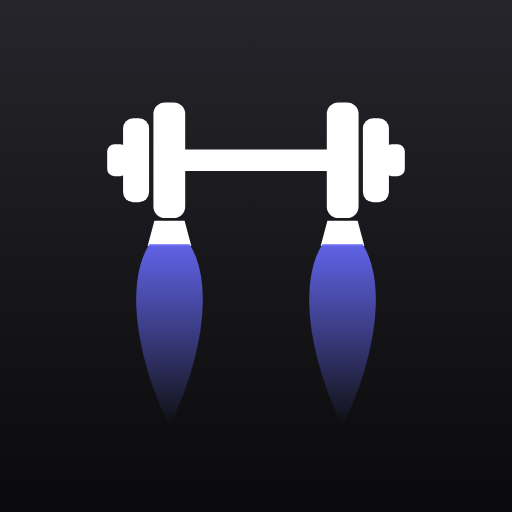
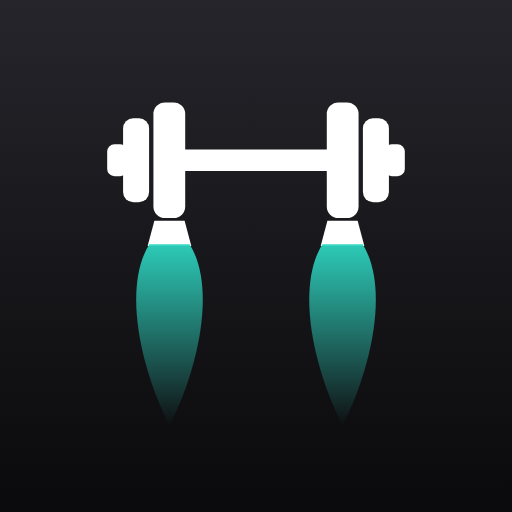
Essai : charte turquoise oxygène à la place de l'indigo
- action, bandeaux et progrès en turquoise (#0fb5a3 ; #2dd4bf en sombre), texte noir posé dessus
- rubriques : Séance libre turquoise profond, Oxa Plan bleu nuit
- logo, icônes, vitrine, image de partage, story et bilan en turquoise

Claude-Session: https://claude.ai/code/session_01BxJGnhW63a6fpFLoPD1ANU

Changed region(s): [[0.5938, 0.4688, 0.75, 0.75], [0.25, 0.4688, 0.4062, 0.75]]

diff --git a/web/app/globals.css b/web/app/globals.css
@@ -4,9 +4,9 @@
 @custom-variant dark (&:is(.dark *));
 
 /* ============================================================
-   Oxa — système de design, charte indigo
-   Neutres purs (blanc, gris, noir) et une couleur de marque : l'indigo
-   électrique, celle des flammes du logo. Elle sert à l'action (`plate`),
+   Oxa — système de design, charte turquoise
+   Neutres purs (blanc, gris, noir) et une couleur de marque : le turquoise
+   oxygène, celle des flammes du logo. Clair, il porte du texte noir. Elle sert à l'action (`plate`),
    aux grands bandeaux (`bandeau`) et au progrès (`feu` : records,
    muscles travaillés, graphiques). Les bannières de rubriques gardent
    chacune leur teinte. Le rouge et les couleurs de RPE restent : ce
@@ -35,18 +35,19 @@
   --input: #d7d7dd;
   --ring: #9c9ca6;
 
-  /* action : indigo (les jetons gardent le nom « plate », le disque de fonte) */
-  --plate: #4f46e5;
-  --plate-foreground: #ffffff;
-  --plate-soft: color-mix(in oklab, var(--plate) 12%, transparent);
-  --plate-ink: #4338ca;           /* indigo lisible en texte sur fond clair */
+  /* action : turquoise (les jetons gardent le nom « plate », le disque de fonte) */
+  --plate: #0fb5a3;
+  --plate-foreground: #0a0a0c;    /* le turquoise est clair : texte noir dessus */
+  --plate-soft: color-mix(in oklab, var(--plate) 14%, transparent);
+  --plate-ink: #0f766e;           /* turquoise lisible en texte sur fond clair */
   /* grands bandeaux (séance du moment, vitrine, street…) */
-  --bandeau: #4f46e5;
+  --bandeau: #0fb5a3;
+  --bandeau-foreground: #0a0a0c;
   /* bannière Street : noire en clair, graphite en sombre (sinon noir sur noir) */
   --street: #1d1d1f;
-  /* feu : le progrès (records, muscles travaillés, graphiques), même indigo */
-  --feu: #4f46e5;
-  --feu-ink: #4338ca;
+  /* feu : le progrès (records, muscles travaillés, graphiques), même turquoise */
+  --feu: #0fb5a3;
+  --feu-ink: #0f766e;
   --feu-soft: color-mix(in oklab, var(--feu) 14%, transparent);
   --success: var(--feu-ink);       /* réussite = le progrès, en teinte lisible sur fond clair */
   --success-soft: var(--feu-soft);
@@ -75,14 +76,14 @@
   --input: #34343c;
   --ring: #55555f;
 
-  --plate: #6d63ff;
-  --plate-foreground: #ffffff;
-  --plate-soft: color-mix(in oklab, var(--plate) 18%, transparent);
-  --plate-ink: #a5a0ff;
-  --bandeau: #4f46e5;
+  --plate: #2dd4bf;
+  --plate-foreground: #0a0a0c;
+  --plate-soft: color-mix(in oklab, var(--plate) 16%, transparent);
+  --plate-ink: #5eead4;
+  --bandeau: #0fb5a3;
   --street: #2c2c33;
-  --feu: #6d63ff;
-  --feu-ink: #a5a0ff;
+  --feu: #2dd4bf;
+  --feu-ink: #5eead4;
   --feu-soft: color-mix(in oklab, var(--feu) 18%, transparent);
   --success: var(--feu);
 }
@@ -124,6 +125,7 @@
   --color-plate-soft: var(--plate-soft);
   --color-plate-ink: var(--plate-ink);
   --color-bandeau: var(--bandeau);
+  --color-bandeau-foreground: var(--bandeau-foreground);
   --color-street: var(--street);
   --color-feu: var(--feu);
   --color-feu-ink: var(--feu-ink);

diff --git a/web/app/progres/bilan/page.tsx b/web/app/progres/bilan/page.tsx
@@ -45,7 +45,7 @@ async function image(r: Recap): Promise<Blob | null> {
   if (!g) return null;
   const police = getComputedStyle(document.body).fontFamily;
   const fond = g.createLinearGradient(0, 0, 0, H);
-  fond.addColorStop(0, "#5b52f0"); fond.addColorStop(1, "#3a32b8");
+  fond.addColorStop(0, "#0e9f90"); fond.addColorStop(1, "#075e57");
   g.fillStyle = fond; g.fillRect(0, 0, W, H);
   /* le disque du logo, en grand et en filigrane */
   g.lineCap = "round";
@@ -105,7 +105,7 @@ function BilanPeriode() {
 
   if (!r || !r.seances)
     return (
-      <div className="grid min-h-dvh place-items-center bg-bandeau p-8 text-center text-white">
+      <div className="grid min-h-dvh place-items-center bg-bandeau p-8 text-center text-bandeau-foreground">
         <div>
           <p className="text-[18px] font-semibold">{tr("Pas encore d'entraînement sur cette période.")}</p>
           <Button variant="secondary" className="mt-4" onClick={retour}>{tr("Revenir")}</Button>
@@ -123,7 +123,7 @@ function BilanPeriode() {
   };
   const e = E[i];
   return (
-    <div className="relative isolate min-h-dvh overflow-hidden bg-gradient-to-b from-[#5b52f0] to-[#3a32b8] text-white select-none">
+    <div className="relative isolate min-h-dvh overflow-hidden bg-gradient-to-b from-[#0e9f90] to-[#075e57] text-white select-none">
       <LogoDisque className="pointer-events-none absolute -right-24 -bottom-24 -z-10 size-[420px] text-white/[.09]" />
       <div className="flex gap-1 px-4 pt-[max(env(safe-area-inset-top),14px)]" aria-hidden>
         {Array.from({ length: total }, (_, k) => (

diff --git a/web/components/repere/logo.tsx b/web/components/repere/logo.tsx
@@ -1,11 +1,11 @@
 /* Logo d'Oxa : un haltère qui décolle, propulsé par deux flammes de fusée (tu progresses).
-   Tuile noire, haltère blanc, flammes indigo. L'haltère et les
+   Tuile noire, haltère blanc, flammes turquoise. L'haltère et les
    flammes ont chacun leur couleur. Source de l'icône : public/icone-source.svg (même dessin). */
 import { useId } from "react";
 import { tr } from "@/lib/i18n";
 import { cn } from "@/lib/utils";
 
-/** Icône d'app : tuile noire, haltère blanc, flammes indigo. Le dessin est réduit (0,84) pour
+/** Icône d'app : tuile noire, haltère blanc, flammes turquoise. Le dessin est réduit (0,84) pour
     tenir dans la zone sûre des icônes Android, rognées en cercle. */
 export function LogoTuile({ className }: { className?: string }) {
   const id = useId();
@@ -19,13 +19,13 @@ export function LogoTuile({ className }: { className?: string }) {
       </defs>
       <rect width="512" height="512" fill={`url(#${id}fond)`} />
       <g transform="translate(256 256) scale(.84) translate(-256 -256)">
-        <Marque haltere="#fff" flamme="#6366f1" />
+        <Marque haltere="#fff" flamme="#2dd4bf" />
       </g>
     </svg>
   );
 }
 
-/** Le logo sans tuile, dans la couleur du texte. `feu` colore les flammes en indigo
+/** Le logo sans tuile, dans la couleur du texte. `feu` colore les flammes en turquoise
     (sinon elles suivent le texte, pour les filigranes). `accent` : haltère couleur d'action. */
 export function LogoDisque({ className, accent, feu }: { className?: string; accent?: boolean; feu?: boolean }) {
   return (

diff --git a/web/components/repere/rubriques.tsx b/web/components/repere/rubriques.tsx
@@ -20,8 +20,8 @@ export const nomRubrique = (v: Rubrique) =>
 
 /* photos des exercices (domaine public), en grand ; hors connexion sans elles, la petite */
 const BANNIERES: Record<Rubrique, { photo: string; fond: string; texte: () => string }> = {
-  libre: { photo: "Dumbbell_Lunges_0", fond: "#3a32b8", texte: () => tr("Muscu, cardio ou combinée : crée ta séance, compose-la, ou parcours les exercices.") },
-  programme: { photo: "Barbell_Squat_0", fond: "#0e7490", texte: () => tr("Huit semaines de séances qui font monter l'effort semaine après semaine.") },
+  libre: { photo: "Dumbbell_Lunges_0", fond: "#0b7f73", texte: () => tr("Muscu, cardio ou combinée : crée ta séance, compose-la, ou parcours les exercices.") },
+  programme: { photo: "Barbell_Squat_0", fond: "#1e3a8a", texte: () => tr("Huit semaines de séances qui font monter l'effort semaine après semaine.") },
   street: { photo: "Chin-Up_1", fond: "var(--street)", texte: () => tr("Poids du corps et barre : programmes par niveau, du plus facile au plus dur.") },
   course: { photo: "Running_Treadmill_0", fond: "#9a4a1c", texte: () => tr("10 km, semi ou marathon : un plan jusqu'au jour J, à ton allure.") },
   soin: { photo: "Hamstring_Stretch_0", fond: "#5d6b55", texte: () => tr("Routines courtes par zone, pour bouger sans douleur.") },

diff --git a/web/components/repere/street.tsx b/web/components/repere/street.tsx
@@ -40,7 +40,7 @@ function TestEntree() {
     setOuvert(false); setV({ tr: "", po: "", di: "", sq: "" });
   };
   return (
-    <div className="rounded-[22px] bg-bandeau p-4 text-white">
+    <div className="rounded-[22px] bg-bandeau p-4 text-bandeau-foreground">
       <div className="text-[11.5px] font-semibold tracking-[0.12em] uppercase opacity-80">{tr("Test d'entrée")}</div>
       {dernier ? (
         <>
@@ -211,7 +211,7 @@ export function VueStreet({ onFiche, onglet }: { onFiche: (id: string) => void; 
     );
   if (onglet === "mesure")
     return (
-      <div className="rounded-[22px] bg-bandeau p-5 text-white">
+      <div className="rounded-[22px] bg-bandeau p-5 text-bandeau-foreground">
         <SparkleIcon className="size-8" weight="fill" />
         <h3 className="mt-2 text-[22px] leading-tight font-bold">{tr("Une séance street sur mesure")}</h3>
         <p className="mt-1.5 text-[14px] leading-relaxed opacity-90">{tr("Tu choisis les muscles et la durée, Oxa compose avec le poids du corps et la barre.")}</p>

diff --git a/web/components/repere/programme-vues.tsx b/web/components/repere/programme-vues.tsx
@@ -36,7 +36,7 @@ export function useProgramme() {
 /* Grand bandeau noir : l'action du moment. Le disque du logo en filigrane. */
 export function Hero({ surtitre, titre, texte, bouton, onClick, icone }: { surtitre: string; titre: string; texte: string; bouton: string; onClick: () => void; icone?: React.ReactNode }) {
   return (
-    <div className="relative isolate overflow-hidden rounded-[26px] bg-bandeau p-5 text-white shadow-[0_18px_40px_-22px_var(--bandeau)]">
+    <div className="relative isolate overflow-hidden rounded-[26px] bg-bandeau p-5 text-bandeau-foreground shadow-[0_18px_40px_-22px_var(--bandeau)]">
       <LogoDisque className="pointer-events-none absolute -right-10 -bottom-12 -z-10 size-52 text-white/[.13]" />
       <div className="flex items-center gap-2 text-[11.5px] font-semibold tracking-[0.12em] uppercase opacity-80">{icone}{surtitre}</div>
       <h2 className="mt-2 text-[26px] leading-[1.1] font-bold tracking-[-0.02em] text-balance">{titre}</h2>

diff --git a/web/app/progres/page.tsx b/web/app/progres/page.tsx
@@ -409,7 +409,7 @@ function Bilans({ auj }: { auj: string }) {
     <div className="flex flex-col gap-2">
       {liste.map((r) => (
         <button key={r.p.id} onClick={() => router.push(`/progres/bilan?p=${r.p.id}` as "/progres/bilan", AVANT)}
-          className="relative isolate flex items-center gap-3 overflow-hidden rounded-[20px] bg-gradient-to-br from-[#5b52f0] to-[#3a32b8] p-4 text-left text-white active:scale-[.99]">
+          className="relative isolate flex items-center gap-3 overflow-hidden rounded-[20px] bg-gradient-to-br from-[#0e9f90] to-[#075e57] p-4 text-left text-white active:scale-[.99]">
           <LogoDisque className="pointer-events-none absolute -right-8 -bottom-10 -z-10 size-36 text-white/10" />
           <SparkleIcon className="size-7 shrink-0" weight="fill" />
           <span className="min-w-0 flex-1">

diff --git a/web/lib/carte-seance.ts b/web/lib/carte-seance.ts
@@ -21,7 +21,7 @@ export async function imageSeance(c: CarteSeance): Promise<Blob | null> {
   const police = getComputedStyle(document.body).fontFamily;
   const chiffres = getComputedStyle(document.body).getPropertyValue("--font-chiffres").trim() || police;
   const fond = g.createRadialGradient(W * 0.8, 0, 0, W * 0.8, 0, H * 0.95);
-  fond.addColorStop(0, "#7068ff"); fond.addColorStop(0.45, "#4f46e5"); fond.addColorStop(1, "#2f2899");
+  fond.addColorStop(0, "#14b8a6"); fond.addColorStop(0.45, "#0e9f90"); fond.addColorStop(1, "#064e47");
   g.fillStyle = fond; g.fillRect(0, 0, W, H);
   const texte = (t: string, x: number, y: number, taille: number, poids = 700, alpha = 1, fam = police) => {
     g.globalAlpha = alpha; g.font = `${poids} ${taille}px ${fam}`; g.fillText(t, x, y); g.globalAlpha = 1;

diff --git a/web/components/repere/vitrine.tsx b/web/components/repere/vitrine.tsx
@@ -23,7 +23,7 @@ const AUSSI = [
 export function Vitrine({ onCommencer, onCompte }: { onCommencer: () => void; onCompte: () => void }) {
   return (
     <div className="-mx-6 -mt-[max(env(safe-area-inset-top),24px)]">
-      <header className="overflow-hidden rounded-b-[34px] bg-bandeau px-6 pt-[max(env(safe-area-inset-top),22px)] text-white">
+      <header className="overflow-hidden rounded-b-[34px] bg-bandeau px-6 pt-[max(env(safe-area-inset-top),22px)] text-bandeau-foreground">
         <div className="flex items-center gap-2.5 text-[18px] font-bold">
           <LogoTuile className="size-9" />{tr("Oxa")}
           <button onClick={onCompte} className="ml-auto text-[14px] font-semibold opacity-90">{tr("J'ai déjà un compte")}</button>

diff --git a/web/components/repere/course.tsx b/web/components/repere/course.tsx
@@ -178,7 +178,7 @@ export function VueCourse({ onglet }: { onglet: "plan" | "seances" }) {
           <CarteCourse />
         </section>
       ) : (
-        <div className="rounded-[22px] bg-bandeau p-5 text-white">
+        <div className="rounded-[22px] bg-bandeau p-5 text-bandeau-foreground">
           <PersonSimpleRunIcon className="size-8" weight="fill" />
           <h3 className="mt-2 text-[22px] leading-tight font-bold">{tr("Prépare une course")}</h3>
           <p className="mt-1.5 text-[14px] leading-relaxed opacity-90">{tr("10 km, semi-marathon ou marathon : un plan jusqu'au jour J, avec tes allures calculées sur ton niveau.")}</p>

diff --git a/web/app/guides/[slug]/page.tsx b/web/app/guides/[slug]/page.tsx
@@ -38,7 +38,7 @@ export default async function PageGuide({ params }: PageProps<"/guides/[slug]">)
           ))}
         </section>
       ))}
-      <div className="mt-10 rounded-[26px] bg-bandeau p-5 text-white">
+      <div className="mt-10 rounded-[26px] bg-bandeau p-5 text-bandeau-foreground">
         <p className="text-[20px] font-bold leading-tight">{g.cta}</p>
         <p className="mt-1.5 text-[14.5px] opacity-90">Gratuit, sans abonnement, sans publicité.</p>
         <a href={g.lien} className="mt-4 block rounded-2xl bg-white py-3.5 text-center text-[16px] font-bold text-plate-ink">Ouvrir Oxa</a>
